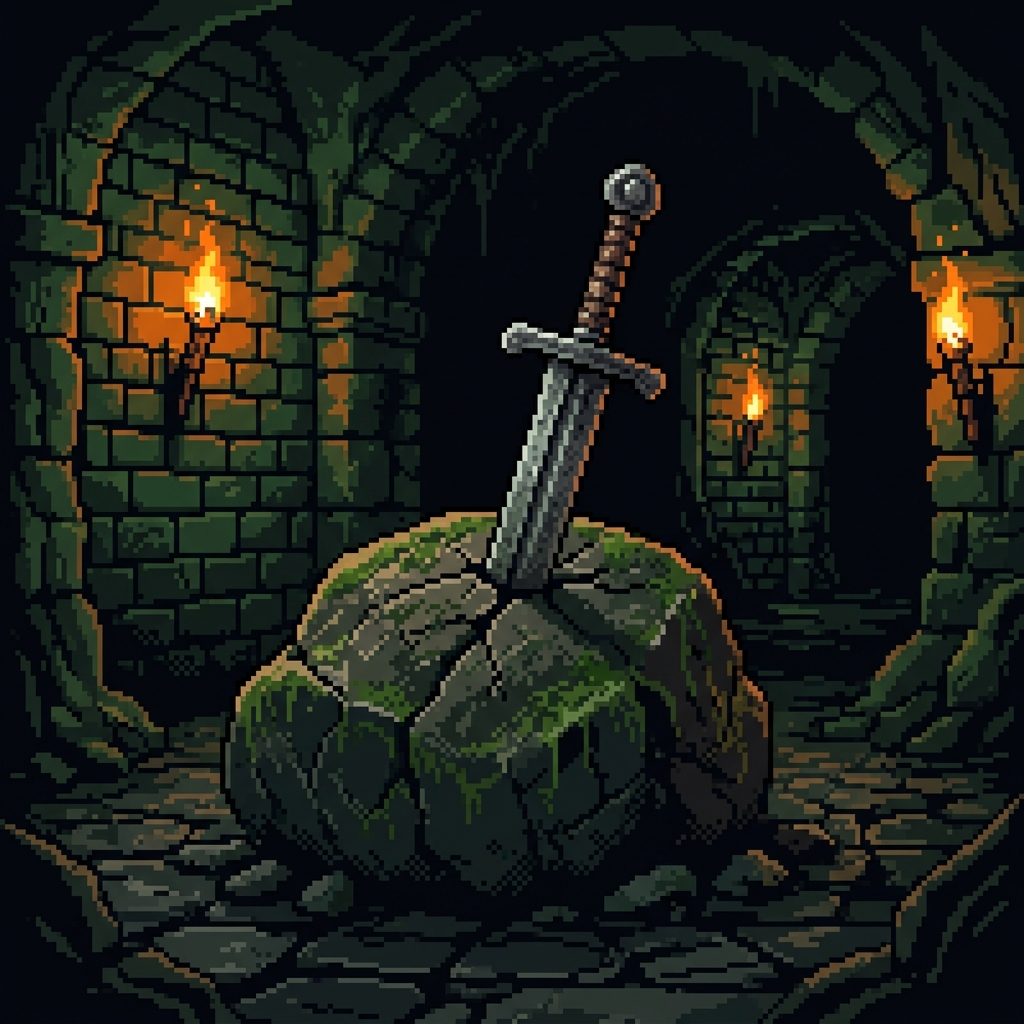
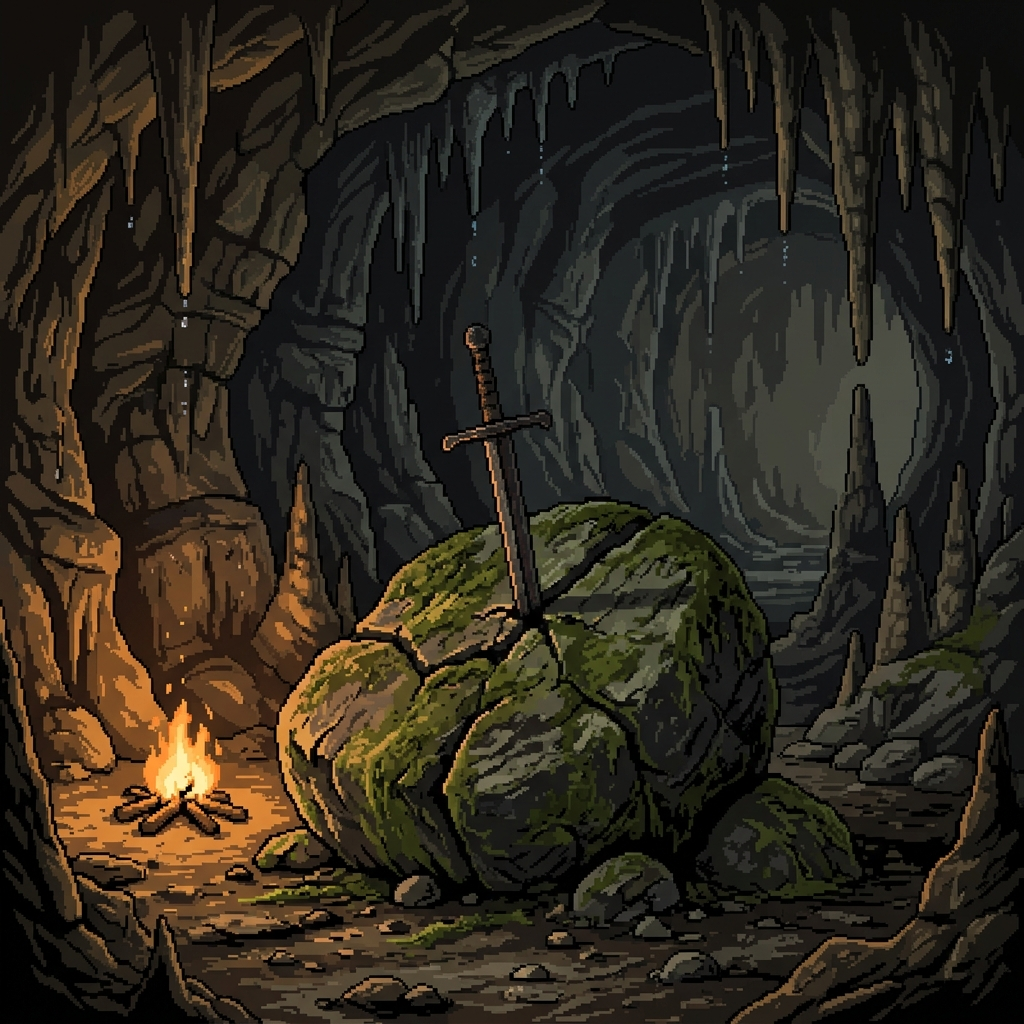
Update Knight's Quest thumbnail to 8-bit stone sword in a natural cave scene, and fix video playback desync by binding triggers to mousemove gestures and visibilitychange

diff --git a/index.html b/index.html
@@ -218,7 +218,17 @@
       }
 
       placeholderBox.addEventListener('mouseenter', () => {
-        startPlayback();
+        if (!isHovered) {
+          startPlayback();
+        }
+      });
+
+      placeholderBox.addEventListener('mousemove', () => {
+        // Safe interactive fallback: triggers playback on any mouse action inside the box.
+        // Extremely robust against programmatic browser autoplay blocks when returning to backgrounded tabs.
+        if (!isHovered) {
+          startPlayback();
+        }
       });
 
       placeholderBox.addEventListener('mouseleave', () => {
@@ -229,21 +239,6 @@
       document.addEventListener('visibilitychange', () => {
         if (document.hidden) {
           pausePlayback();
-        } else {
-          // Auto-resume if user's cursor is still hovering over the card on return
-          if (placeholderBox.matches(':hover')) {
-            startPlayback();
-          }
-        }
-      });
-
-      window.addEventListener('blur', () => {
-        pausePlayback();
-      });
-
-      window.addEventListener('focus', () => {
-        if (placeholderBox.matches(':hover')) {
-          startPlayback();
         }
       });
     });
